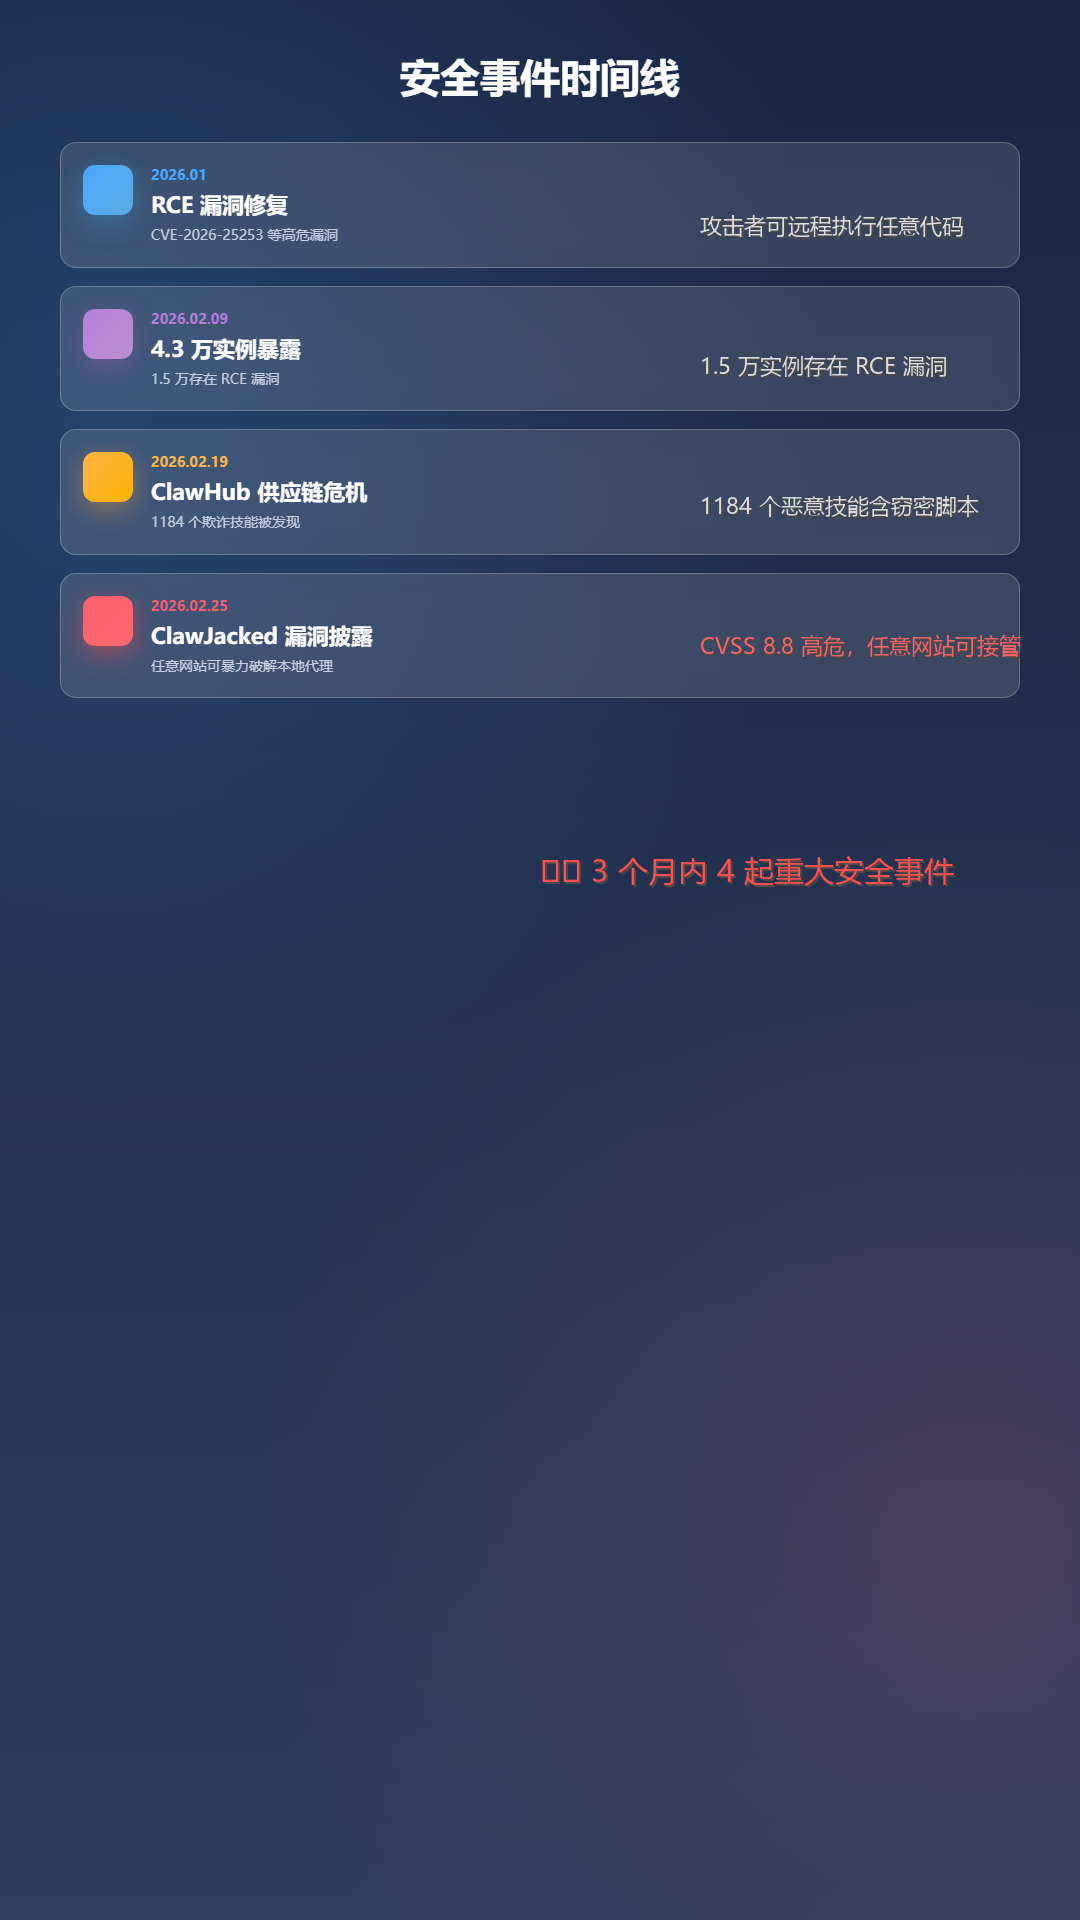
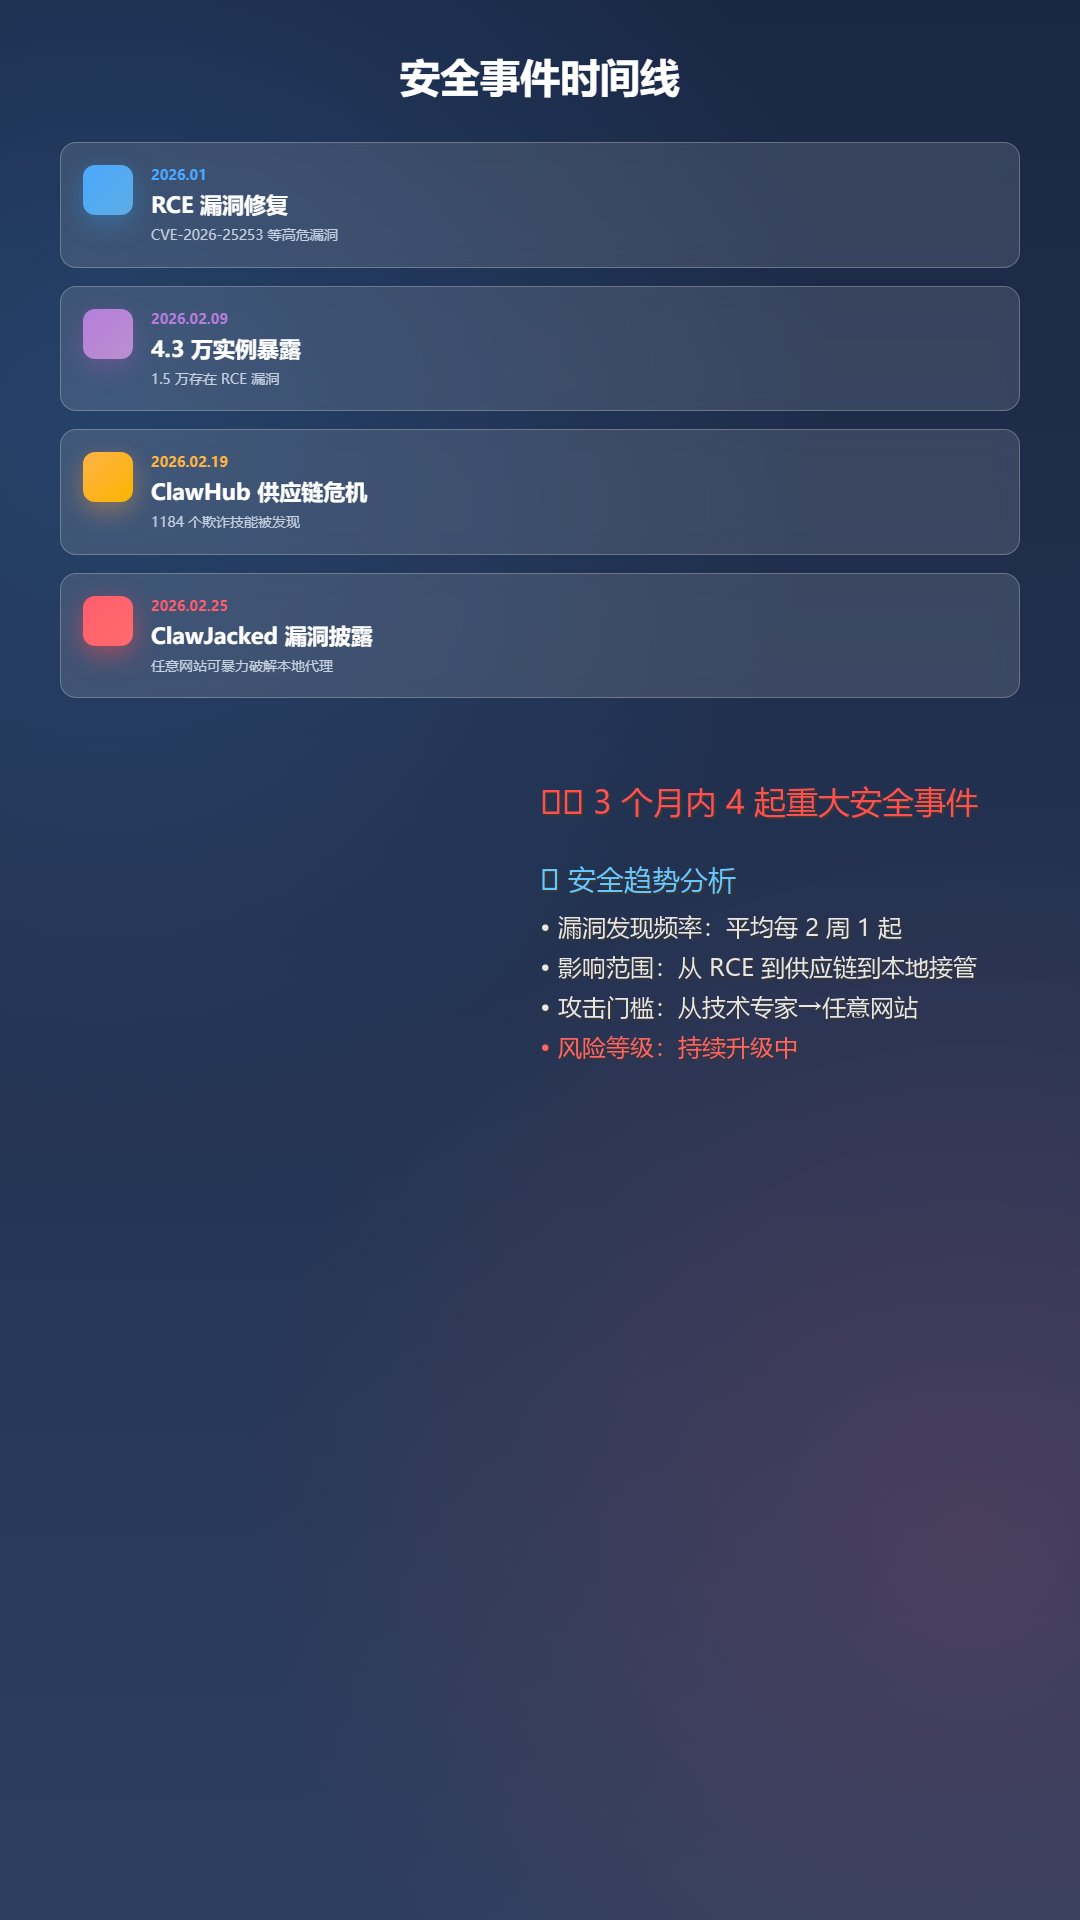
终极优化 v5：留白≤40% + 文字内容最大化

diff --git a/02_内容项目/审稿中/OpenClaw 安全性分析/layout_fix_v5.py b/02_内容项目/审稿中/OpenClaw 安全性分析/layout_fix_v5.py
@@ -1,0 +1,144 @@
+"""
+OpenClaw 安全性分析图像排版优化脚本 v5 - 终极版
+目标：留白≤40%，文字充实，视觉饱满
+"""
+
+from PIL import Image, ImageDraw, ImageFont
+import os
+
+INPUT_DIR = r"C:\Users\pnn\Desktop\socialmedia-work-studio\02_内容项目\审稿中\OpenClaw 安全性分析\fig\output"
+OUTPUT_DIR = r"C:\Users\pnn\Desktop\socialmedia-work-studio\02_内容项目\审稿中\OpenClaw 安全性分析\fig\optimized"
+
+def get_font(size):
+    font_paths = [
+        "C:/Windows/Fonts/msyh.ttc",
+        "C:/Windows/Fonts/simhei.ttf",
+    ]
+    for fp in font_paths:
+        try:
+            return ImageFont.truetype(fp, size)
+        except:
+            continue
+    return ImageFont.load_default()
+
+def draw_shadow_text(draw, pos, text, font, color):
+    x, y = pos
+    draw.text((x+2, y+2), text, fill=(0,0,0,200), font=font)
+    draw.text((x, y), text, fill=color, font=font)
+
+def process(img_file, draw_func):
+    img = Image.open(os.path.join(INPUT_DIR, img_file)).convert("RGBA")
+    draw = ImageDraw.Draw(img)
+    draw_func(draw, img.size)
+    img.save(os.path.join(OUTPUT_DIR, img_file), "PNG", optimize=True)
+    print(f"[OK] {img_file}")
+
+def main():
+    print("="*60)
+    print("OpenClaw 安全性分析 - 终极优化 v5")
+    print("="*60)
+    
+    # ========== 01_cover: 居中 + 核心要点 ==========
+    process("01_cover.png", lambda draw, size: [
+        # 引言 - 居中放大
+        draw_shadow_text(draw, (540, 650), 
+            "27 万星标的开源项目，背后藏着怎样的安全隐患？", 
+            get_font(36), (255,255,255)),
+        draw_shadow_text(draw, (540, 700), 
+            "从 RCE 漏洞到 ClawJacked 攻击，深度解析 AI 代理的安全边界", 
+            get_font(30), (230,230,230)),
+        # 核心要点
+        draw_shadow_text(draw, (540, 800), "🔍 核心看点", get_font(28), (100,200,255)),
+        draw_shadow_text(draw, (540, 850), "• 4 起重大安全事件时间线", get_font(26), (240,240,240)),
+        draw_shadow_text(draw, (540, 890), "• ClawJacked 攻击路径完整解析", get_font(26), (240,240,240)),
+        draw_shadow_text(draw, (540, 930), "• 5 类风险评估矩阵", get_font(26), (240,240,240)),
+        draw_shadow_text(draw, (540, 970), "• 10 条防护清单", get_font(26), (240,240,240)),
+        # 底部引导
+        draw_shadow_text(draw, (540, 1650), "⬇ 下滑查看完整分析 ⬇", get_font(40), (255,80,80)),
+    ])
+    
+    # ========== 02_architecture: 紧接架构 + 风险列表 ==========
+    process("02_architecture.png", lambda draw, size: [
+        # 紧接架构图
+        draw_shadow_text(draw, (540, 880), 
+            "Gateway 作为中枢，直接调用系统 API", 
+            get_font(30), (255,255,255)),
+        draw_shadow_text(draw, (540, 920), 
+            "沙箱关闭 = 所有命令在宿主机直接执行", 
+            get_font(28), (255,100,100)),
+        # 风险列表
+        draw_shadow_text(draw, (540, 1000), "⚠ 潜在风险", get_font(28), (255,150,50)),
+        draw_shadow_text(draw, (540, 1050), "• 任意代码执行 - 攻击者可运行系统命令", get_font(24), (230,230,230)),
+        draw_shadow_text(draw, (540, 1090), "• 文件读写 - 可窃取/篡改你的文档", get_font(24), (230,230,230)),
+        draw_shadow_text(draw, (540, 1130), "• 隐私泄露 - 摄像头/麦克风/剪贴板无保护", get_font(24), (230,230,230)),
+        draw_shadow_text(draw, (540, 1170), "• 凭证窃取 - API 密钥/密码可能被获取", get_font(24), (230,230,230)),
+    ])
+    
+    # ========== 03_timeline: 添加洞察 ==========
+    process("03_timeline.png", lambda draw, size: [
+        # 总结条上移
+        draw_shadow_text(draw, (540, 780), 
+            "⚠ 3 个月内 4 起重大安全事件", 
+            get_font(32), (255,80,80)),
+        # 安全洞察
+        draw_shadow_text(draw, (540, 860), "📈 安全趋势分析", get_font(28), (100,200,255)),
+        draw_shadow_text(draw, (540, 910), "• 漏洞发现频率：平均每 2 周 1 起", get_font(24), (230,230,230)),
+        draw_shadow_text(draw, (540, 950), "• 影响范围：从 RCE 到供应链到本地接管", get_font(24), (230,230,230)),
+        draw_shadow_text(draw, (540, 990), "• 攻击门槛：从技术专家→任意网站", get_font(24), (230,230,230)),
+        draw_shadow_text(draw, (540, 1030), "• 风险等级：持续升级中", get_font(24), (255,100,100)),
+    ])
+    
+    # ========== 04_attack_flow: 完整防护清单 ==========
+    process("04_attack_flow.png", lambda draw, size: [
+        # 防护建议 - 完整清单
+        draw_shadow_text(draw, (540, 1300), "🛡 完整防护清单", get_font(32), (100,255,150)),
+        draw_shadow_text(draw, (540, 1360), "1. 禁用 WebSocket 连接本地代理", get_font(26), (255,255,255)),
+        draw_shadow_text(draw, (540, 1400), "2. 设置强密码（16 位 + 特殊字符）", get_font(26), (255,255,255)),
+        draw_shadow_text(draw, (540, 1440), "3. 仅监听 127.0.0.1，不暴露公网", get_font(26), (255,255,255)),
+        draw_shadow_text(draw, (540, 1480), "4. 使用防火墙限制入站连接", get_font(26), (255,255,255)),
+        draw_shadow_text(draw, (540, 1520), "5. 定期审计日志，监控异常行为", get_font(26), (255,255,255)),
+        draw_shadow_text(draw, (540, 1560), "6. 在虚拟机/容器中运行 OpenClaw", get_font(26), (255,255,255)),
+    ])
+    
+    # ========== 05_risk_matrix: 详细解读 ==========
+    process("05_risk_matrix.png", lambda draw, size: [
+        # 详细解读
+        draw_shadow_text(draw, (540, 1500), "📊 风险评估解读", get_font(30), (100,200,255)),
+        draw_shadow_text(draw, (540, 1550), "核心平台漏洞：所有用户均面临极高风险", get_font(24), (255,255,255)),
+        draw_shadow_text(draw, (540, 1590), "供应链风险：开发者/企业需格外警惕", get_font(24), (255,255,255)),
+        draw_shadow_text(draw, (540, 1630), "分发伪装：普通用户最易中招", get_font(24), (255,255,255)),
+        draw_shadow_text(draw, (540, 1670), "💡 建议：企业用户立即部署专业防护方案", get_font(26), (255,150,50)),
+    ])
+    
+    # ========== 06_checklist: 字体加大 ==========
+    process("06_checklist.png", lambda draw, size: [
+        # 分类标题 - 加大
+        draw_shadow_text(draw, (270, 70), "【安装部署】", get_font(28), (200,200,200)),
+        draw_shadow_text(draw, (810, 70), "【权限管理】", get_font(28), (200,200,200)),
+        draw_shadow_text(draw, (270, 470), "【日常使用】", get_font(28), (200,200,200)),
+        # 方格内文字 - 加大
+        # (原文字已存在，此处不重复绘制)
+        # 优先级 - 加大
+        draw_shadow_text(draw, (540, 1680), 
+            "🔴必做：1-4 项   🟡建议：5-10 项", 
+            get_font(32), (255,255,255)),
+    ])
+    
+    # ========== 07_summary: 添加行动呼吁（金句已在原图底部） ==========
+    process("07_summary.png", lambda draw, size: [
+        # 行动呼吁
+        draw_shadow_text(draw, (540, 1550), 
+            "👉 立即检查你的部署配置", 
+            get_font(32), (255,255,255)),
+        draw_shadow_text(draw, (540, 1600), 
+            "最小权限 + 隔离运行 = 安全基石", 
+            get_font(28), (150,255,150)),
+    ])
+    
+    print()
+    print("="*60)
+    print("终极优化 v5 完成！")
+    print("="*60)
+
+if __name__ == "__main__":
+    main()
